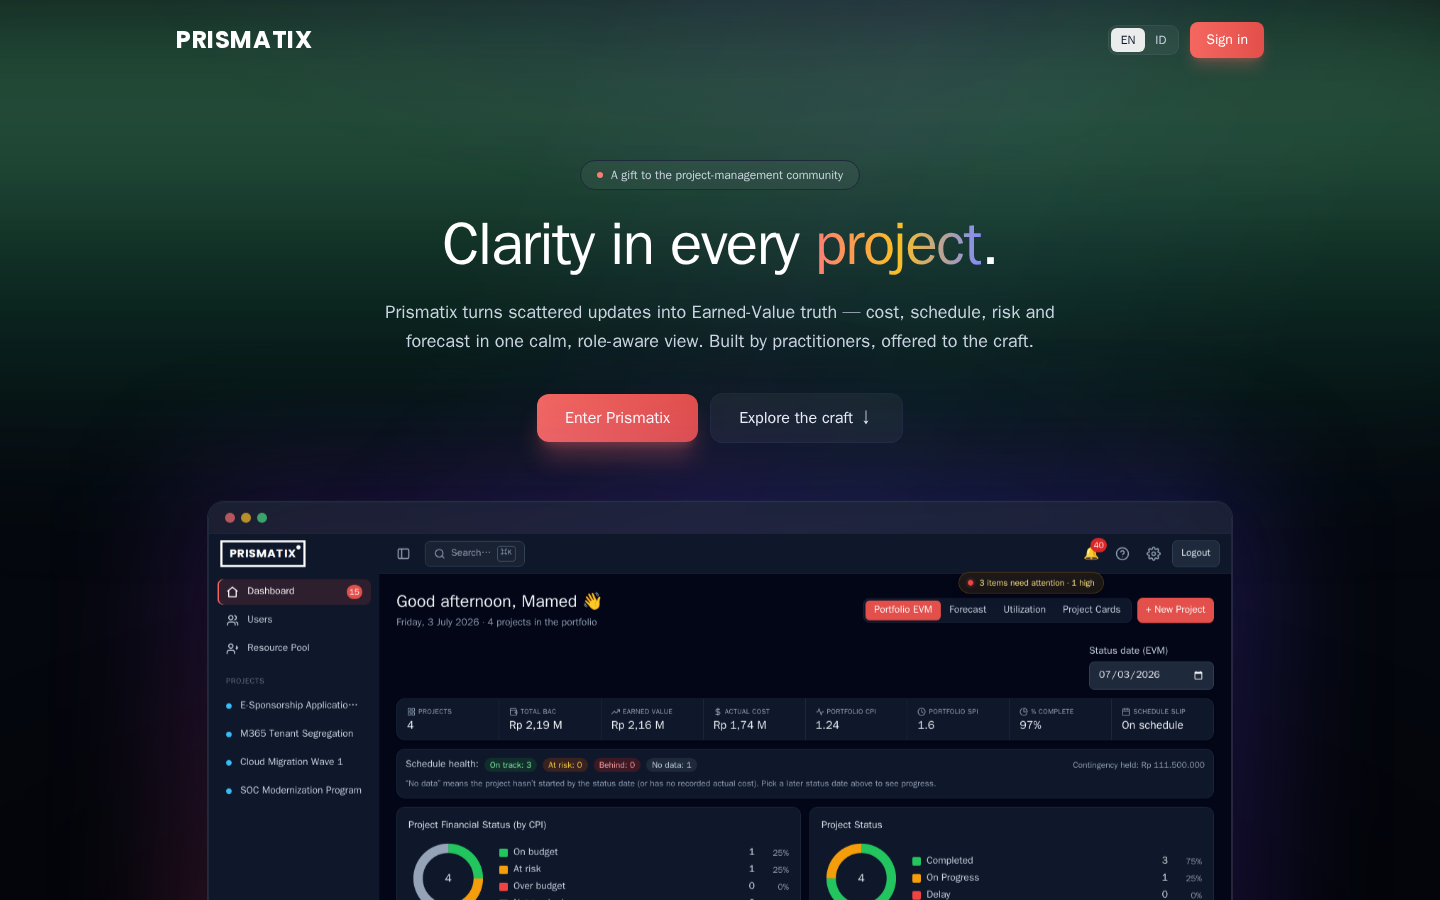
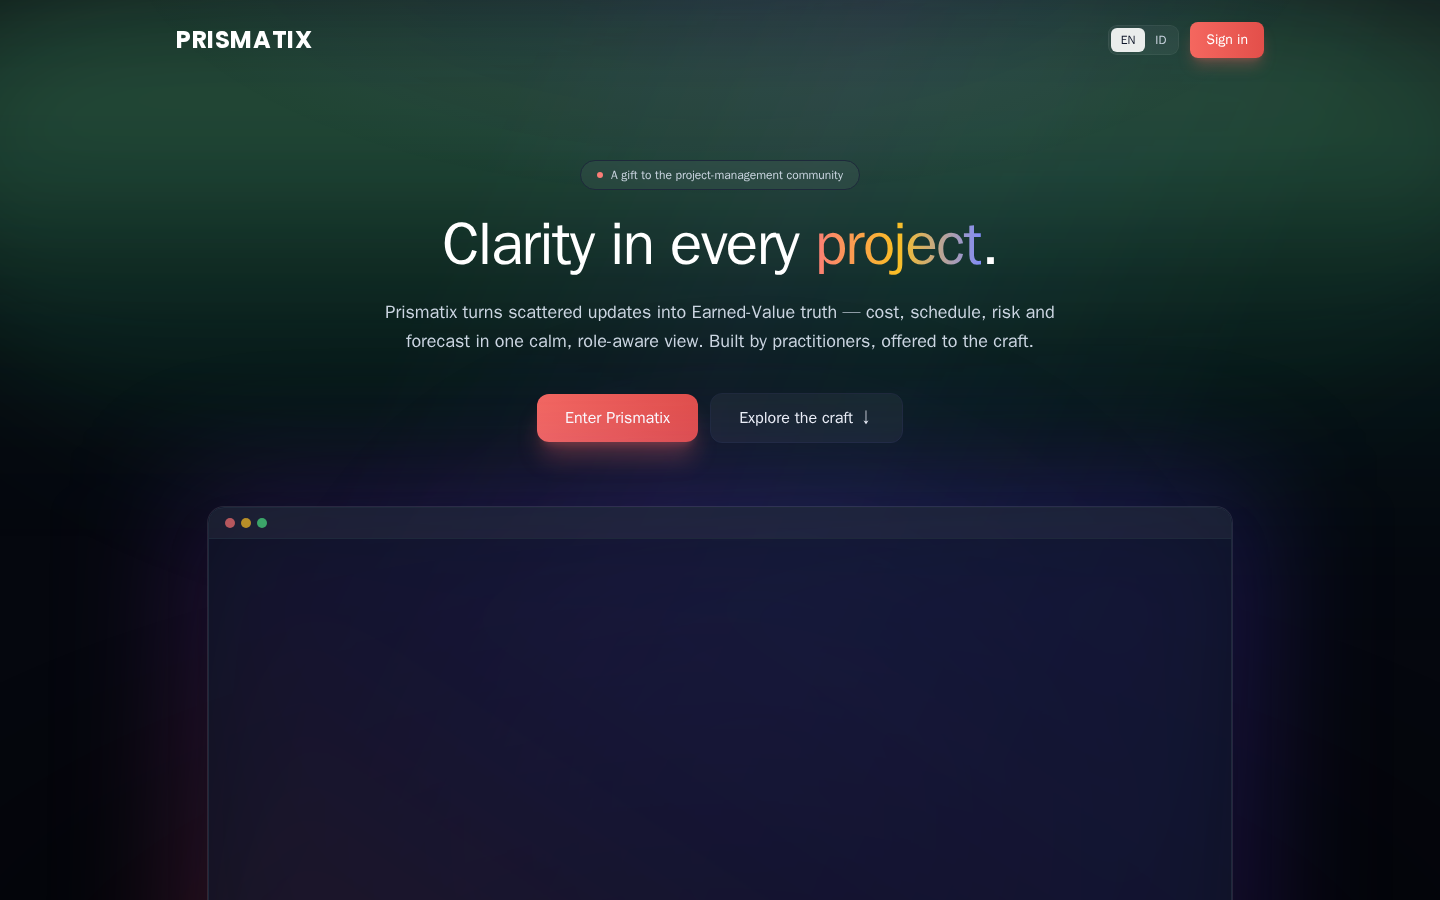
style(web): make the green aurora borealis sway more visibly
Bigger, multi-stop keyframe motion (wider translate/skew/scale) with an opacity
shimmer and slightly faster cadence, so the green curtains clearly undulate and
dance while staying soft. README hero screenshot refreshed.

Changed region(s): [[0.125, 0.56, 0.8438, 1.0], [0.1562, 0.7778, 0.25, 0.9022], [0.8125, 0.9956, 0.8438, 1.0]]

diff --git a/client/src/pages/HomePage.tsx b/client/src/pages/HomePage.tsx
@@ -281,14 +281,27 @@ export default function HomePage() {
         .pmx-orb { will-change: transform; }
 
         /* --- aurora borealis: soft light curtains that sway (transform-only) --- */
-        .pmx-aur { position:absolute; left:-25%; right:-25%; top:-16%; height:80%; border-radius:50%;
+        .pmx-aur { position:absolute; left:-30%; right:-30%; top:-16%; height:80%; border-radius:50%;
           filter:blur(56px); opacity:.42; mix-blend-mode:screen; will-change:transform,opacity; }
         .pmx-aur1 { background:linear-gradient(180deg, transparent 4%, rgba(74,222,128,.5) 32%, rgba(34,197,94,.22) 58%, transparent 84%);
-          animation:pmx-aurA 18s ease-in-out infinite; }
+          animation:pmx-aurA 13s ease-in-out infinite; }
         .pmx-aur2 { background:linear-gradient(180deg, transparent 8%, rgba(134,239,172,.42) 36%, rgba(16,185,129,.2) 62%, transparent 90%);
-          animation:pmx-aurB 24s ease-in-out infinite; }
-        @keyframes pmx-aurA { 0%,100%{transform:translateX(-7%) skewX(-9deg) scaleY(1)}   50%{transform:translateX(7%) skewX(7deg) scaleY(1.18)} }
-        @keyframes pmx-aurB { 0%,100%{transform:translateX(6%) skewX(8deg) scaleY(1.12)}  50%{transform:translateX(-6%) skewX(-8deg) scaleY(.92)} }
+          animation:pmx-aurB 17s ease-in-out infinite; }
+        /* larger, multi-stop sway + an opacity shimmer so the curtains clearly dance */
+        @keyframes pmx-aurA {
+          0%   { transform:translateX(-16%) skewX(-15deg) scaleY(1);    opacity:.32 }
+          25%  { transform:translateX(-4%)  skewX(5deg)   scaleY(1.2);  opacity:.52 }
+          50%  { transform:translateX(16%)  skewX(14deg)  scaleY(1.32); opacity:.4 }
+          75%  { transform:translateX(3%)   skewX(-7deg)  scaleY(1.12); opacity:.54 }
+          100% { transform:translateX(-16%) skewX(-15deg) scaleY(1);    opacity:.32 }
+        }
+        @keyframes pmx-aurB {
+          0%   { transform:translateX(15%)  skewX(14deg)  scaleY(1.18); opacity:.46 }
+          30%  { transform:translateX(2%)   skewX(-4deg)  scaleY(1);    opacity:.28 }
+          55%  { transform:translateX(-15%) skewX(-15deg) scaleY(1.26); opacity:.48 }
+          80%  { transform:translateX(-3%)  skewX(6deg)   scaleY(1.05); opacity:.3 }
+          100% { transform:translateX(15%)  skewX(14deg)  scaleY(1.18); opacity:.46 }
+        }
 
         .pmx-nebula { position:absolute; inset:-20%; filter:blur(22px); opacity:.6; will-change:transform;
           background:linear-gradient(115deg, transparent 36%, rgba(139,92,246,.09) 48%, rgba(96,165,250,.08) 55%, transparent 68%);